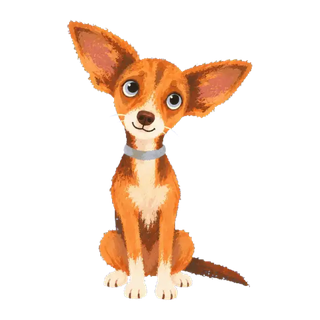
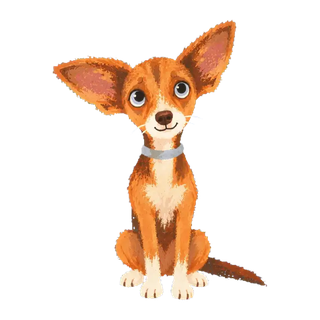
Новая анимация Джорджии
Видео с убранным хромакеем, кадры 49-120 исходника при 12 к/с: шов на
перезапуске 0.47 обычного шага, цикл идёт только вперёд, без перемотки.

Игровая анимация убрана: у нового ролика другая поза, и общего кадра с
ней нет — подмена между ними была бы заметным скачком. Во время игры
Джорджия остаётся в анимации покоя, как Лея и Варяг.

Changed region(s): [[0.1562, 0.0625, 0.8438, 0.9375]]

diff --git a/src/domain/petDefinitions.ts b/src/domain/petDefinitions.ts
@@ -133,13 +133,10 @@ export const PET_DEFINITIONS: Record<PetId, PetDefinition> = {
       PETTING: '🥰',
     },
     idleSprite: require('../../assets/images/georgia-idle.webp'),
-    playSprite: require('../../assets/images/georgia-play.webp'),
-    // 60 and 70 frames at 12 fps.
-    idleLoopMs: 4980,
-    playLoopMs: 5810,
+    // 36 frames at 12 fps.
+    idleLoopMs: 2988,
     portrait: require('../../assets/images/portraits/georgia.png'),
-    spriteScale: 2.61,
-    spriteOffsetY: -0.08,
+    spriteScale: 2.49,
   },
 };
 
